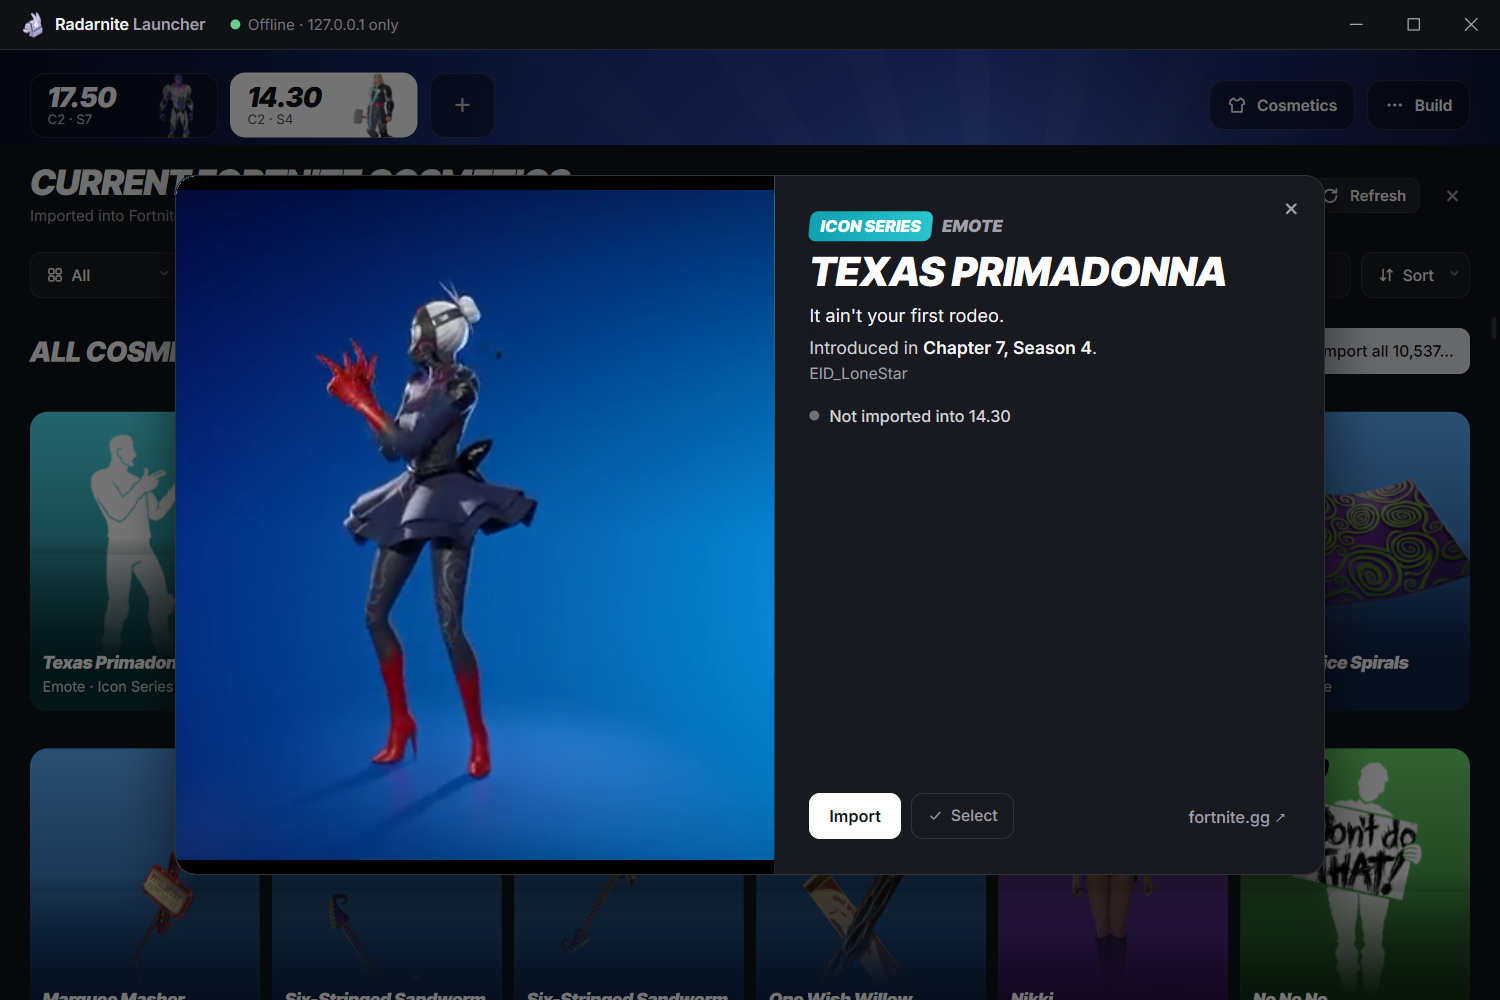
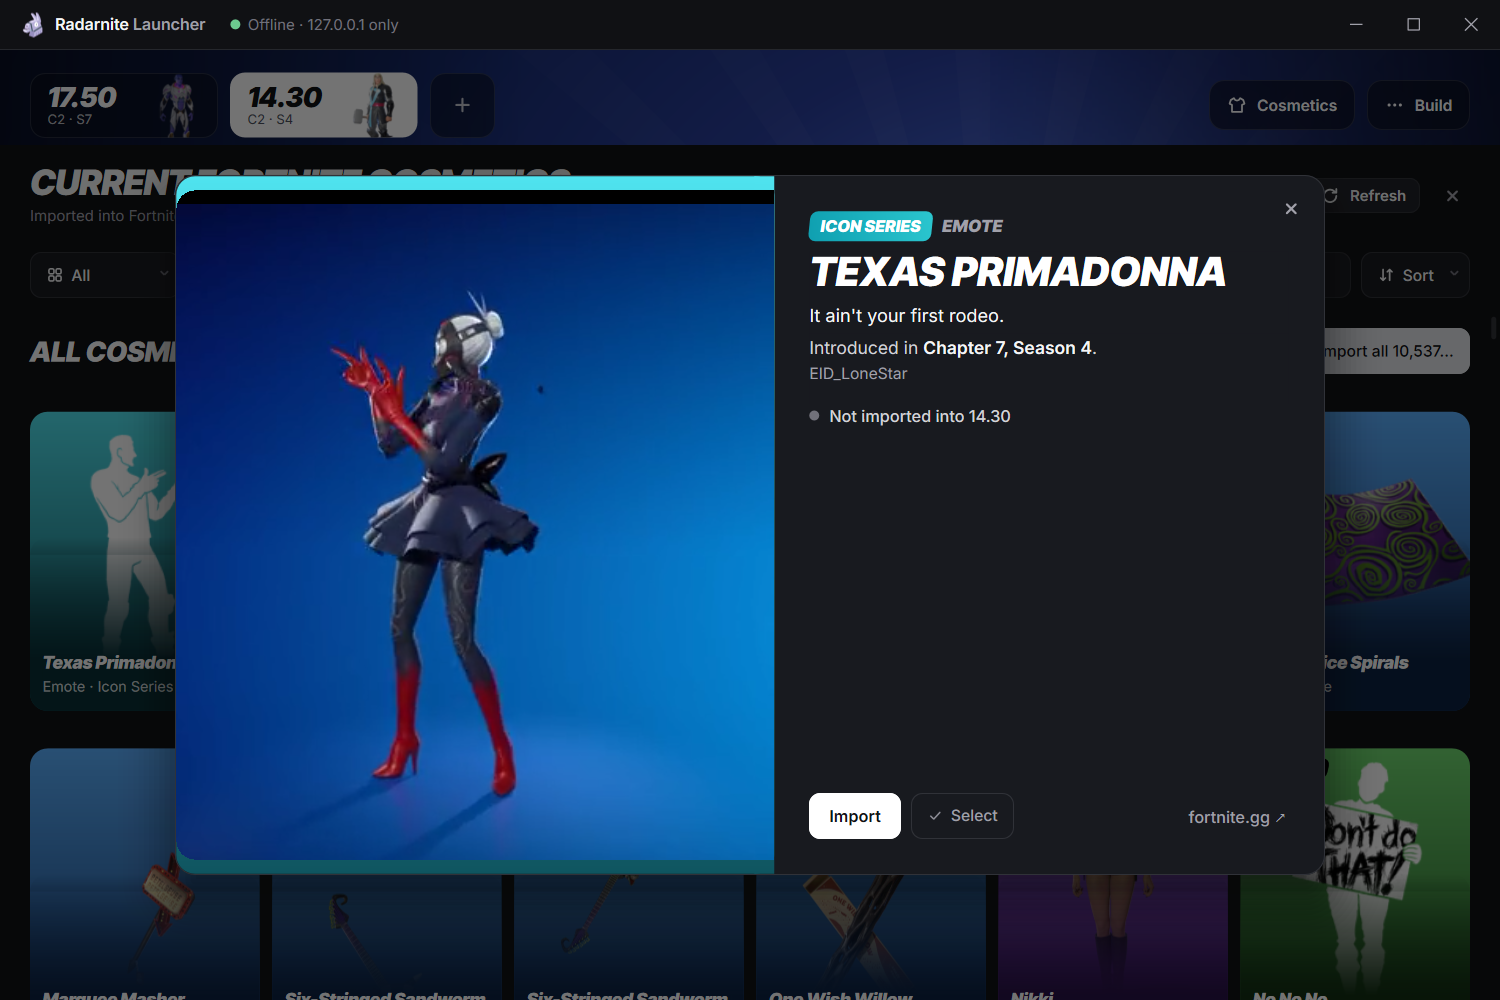
Native UI: the preview's clip keeps its own aspect inside the media area
Selftest: 0 failures; the clip shows its first frame in 0.6 s.

Changed region(s): [[0.2147, 0.279, 0.368, 0.806], [0.1227, 0.837, 0.5213, 0.899], [0.1227, 0.155, 0.5213, 0.217]]

diff --git a/native/ui/video.cpp b/native/ui/video.cpp
@@ -113,14 +113,22 @@ void Video::place(RECT r, bool visible) {
     bool moved = memcmp(&r, &r_, sizeof r) != 0;
     if (moved) {
         r_ = r;
-        SetWindowPos(hwnd_, nullptr, r.left, r.top, r.right - r.left, r.bottom - r.top, SWP_NOZORDER | SWP_NOACTIVATE);
+        // contain: the clip at its own aspect, centred (the preview's gradient shows around it)
+        RECT f = r;
+        int bw = r.right - r.left, bh = r.bottom - r.top;
+        if (vw_ && vh_ && bw > 0 && bh > 0) {
+            if ((int64_t)bw * vh_ > (int64_t)bh * vw_) { int w = (int)((int64_t)bh * vw_ / vh_); f.left = r.left + (bw - w) / 2; f.right = f.left + w; }
+            else { int h = (int)((int64_t)bw * vh_ / vw_); f.top = r.top + (bh - h) / 2; f.bottom = f.top + h; }
+        }
+        SetWindowPos(hwnd_, nullptr, f.left, f.top, f.right - f.left, f.bottom - f.top, SWP_NOZORDER | SWP_NOACTIVATE);
+        fit_ = f;
     }
     if (moved || visible != visible_ || (ready_ && !shown_ && visible)) {
         visible_ = visible;
         bool show = visible && ready_;
         if (show && radius_ > 0) {
             // the preview's left corners are rounded: so is the video
-            int w = r.right - r.left, h = r.bottom - r.top;
+            int w = fit_.right - fit_.left, h = fit_.bottom - fit_.top;
             HRGN g = CreateRoundRectRgn(0, 0, w + 1 + radius_ * 2, h + 1, radius_ * 2, radius_ * 2);
             SetWindowRgn(hwnd_, g, FALSE);
         }
@@ -133,7 +141,11 @@ void Video::place(RECT r, bool visible) {
 void Video::onEvent(WPARAM event, LPARAM gen) {
     if (gen != gen_ || !engine_) return;
     if (event == MF_MEDIA_ENGINE_EVENT_ERROR) { RECT r = r_; std::string u = url_; stop(); url_ = u; r_ = r; failed_ = true; return; }
-    if (!ready_) { ready_ = true; RECT r = r_; r_ = {}; place(r, visible_); }
+    if (!ready_) {
+        ready_ = true;
+        engine_->GetNativeVideoSize(&vw_, &vh_);
+        RECT r = r_; r_ = {}; place(r, visible_);
+    }
 }
 
 void Video::stop() {
@@ -143,6 +155,7 @@ void Video::stop() {
     unloadMf();
     url_.clear();
     ready_ = shown_ = failed_ = false;
+    vw_ = vh_ = 0;
     visible_ = true;
 }
 

diff --git a/native/ui/video.h b/native/ui/video.h
@@ -31,7 +31,8 @@ private:
     IMFMediaEngine* engine_ = nullptr;
     Notify* notify_ = nullptr;
     std::string url_;
-    RECT r_{};
+    RECT r_{}, fit_{};          // the media area, the clip's window inside it
+    DWORD vw_ = 0, vh_ = 0;     // the clip's size
     int radius_ = 0;
     bool ready_ = false, shown_ = false, failed_ = false, visible_ = true;
     LPARAM gen_ = 0;
